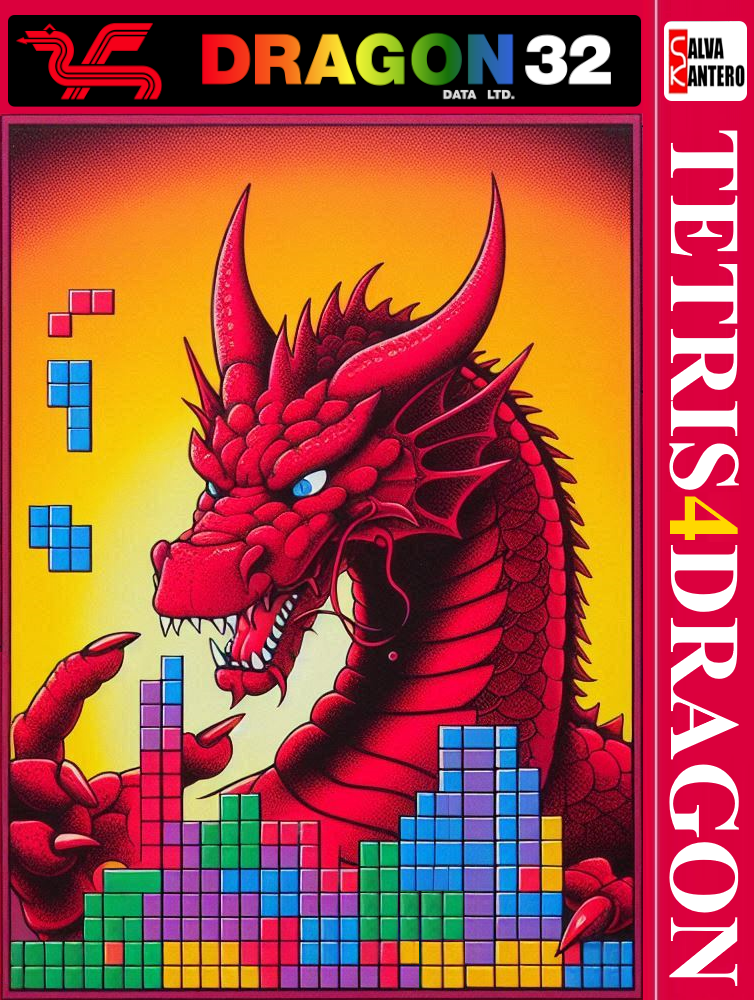
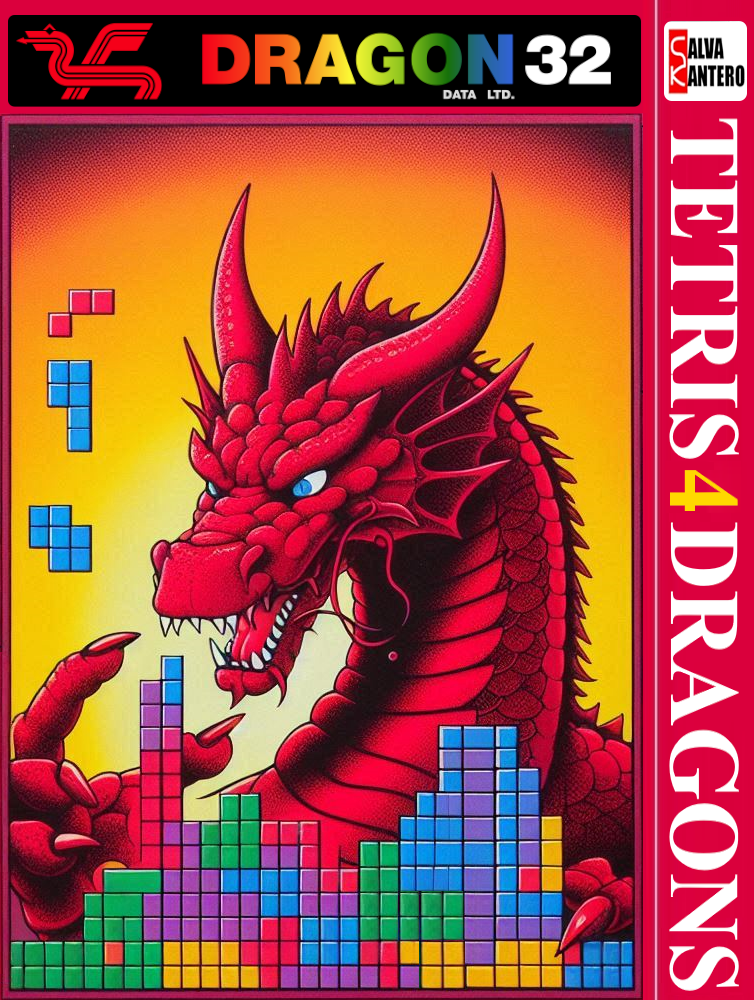
-

Changed region(s): [[0.8846, 0.093, 1.0, 0.992]]

diff --git a/t4d.c b/t4d.c
@@ -1,11 +1,11 @@
 /*
 
-***TETRIS4DRAGON***
- salvaKantero 2024
+*** TETRIS4DRAGONS ***
+   salvaKantero2024
+
+Compatible with Dragon 32/64 and COCO
 
 Based on Peter Swinkels' PC Qbasic code. (QBBlocks v1.0)
-
-compatible with Dragon 32/64 and COCO
 
 use the CMOC compiler 0.1.89 or higher
 "cmoc --dragon -o t4d.bin t4d.c"
@@ -13,9 +13,9 @@ use the CMOC compiler 0.1.89 or higher
 
 TODO
 ====
-- impresión de bloques
+- línea 16 con 2 players
+- desplazamiento izda.
 - timing
-
 
 */
 
@@ -27,7 +27,7 @@ TODO
 #define BLOCKCOUNT SIDEBLOCKCOUNT * SIDEBLOCKCOUNT // size of the piece in blocks
 #define NOBLOCK '0' // character representing an empty block
 #define PITWIDTH 10 // width of the pit in blocks
-#define PITHEIGHT 15 // height of the pit in blocks
+#define PITHEIGHT 16 // height of the pit in blocks
 
 char key; // key pressed
 unsigned char numPlayers; // 0 = player1  1 = player2
@@ -58,9 +58,7 @@ void drawBlock(char blockColour, unsigned char pitX, unsigned char pitY, unsigne
     unsigned char colour = blockColour-'0'; // (0 to 8)
     locate(pitX + pitLeft[i], pitY);
     /*
-    dragon semigraphic characters: 127 to 255
-    +0: black
-    +1: green  
+    dragon semigraphic characters: 127 to 255 
     +16: yellow  
     +32: blue  
     +48: red  
@@ -69,12 +67,12 @@ void drawBlock(char blockColour, unsigned char pitX, unsigned char pitY, unsigne
     +96: magenta  
     +112: orange 
     */
-    // black background (empty block = 128)
+    // black background (empty block)
     if (colour == 0) {
         printf("%c", 128);
         return;
     }
-    // black background (coloured filled block = 143)
+    // coloured filled block
     printf("%c", 143 + ((colour-1) * 16));
 }
 
@@ -517,11 +515,11 @@ void mainLoop() {
     char* rotatedMap;
 
     // save the start time for player 1
-    startTime[0] = getTimer();
-    if (numPlayers > 0) {
+    //startTime[0] = getTimer();
+    //if (numPlayers > 0) {
         // save the start time for player 1
-        startTime[1] = getTimer();
-    }
+        //startTime[1] = getTimer();
+    //}
     while (TRUE) {
         char key = '\0';
         // loop until a key is pressed
@@ -529,10 +527,10 @@ void mainLoop() {
             for (i = 0; i <= numPlayers; i++) {
                 if (!gameOver[i]) { // game in progress
                     // if the falling time has been exceeded
-                    if (getTimer() >= startTime[i] + dropRate[i] || startTime[i] > getTimer()) {
+                    //if (getTimer() >= startTime[i] + dropRate[i] || startTime[i] > getTimer()) {
                         dropShape(i); // the piece moves down
-                        startTime[i] = getTimer(); // reset the fall timer
-                    }
+                        //startTime[i] = getTimer(); // reset the fall timer
+                    //}
                 }
             }
             key = inkey(); // read keypresses
@@ -542,11 +540,13 @@ void mainLoop() {
             break;
         } else {
             for (i = 0; i <= numPlayers; i++) {
+                /*
                 if (gameOver[i]) { // out of game
                     if (key == 'Z') { // if ENTER is pressed, restart game
                         break;
                     }
-                } else {
+                } else { */
+                if (!gameOver[i]) {
                     // assign keys for each player
                     char rotateKey, leftKey, downKey, rightKey;
                     if (i == 0) {
@@ -560,7 +560,6 @@ void mainLoop() {
                         downKey = 'K';
                         rightKey = 'L';
                     }
-
                     switch (key) {
                         case 'W': case 'I': // rotate key
                             drawShape(i, TRUE); // erase piece
@@ -574,15 +573,19 @@ void mainLoop() {
                             break;
 
                         case 'A': case 'J': // move left
-                            drawShape(i, TRUE); // erase piece
-                            if (shapeCanMove(shapeMap[i], -1, 0, i)) shapeX[i]--;
-                            drawShape(i, FALSE);
+                            if (shapeCanMove(shapeMap[i], -1, 0, i)) {
+                                drawShape(i, TRUE); // erase piece
+                                shapeX[i]--;
+                                drawShape(i, FALSE);
+                            }
                             break;
 
                         case 'D': case 'L': // move right
-                            drawShape(i, TRUE); // erase piece
-                            if (shapeCanMove(shapeMap[i], 1, 0, i)) shapeX[i]++;
-                            drawShape(i, FALSE);
+                            if (shapeCanMove(shapeMap[i], 1, 0, i)) {
+                                drawShape(i, TRUE); // erase piece
+                                shapeX[i]++;
+                                drawShape(i, FALSE);
+                            }
                             break;
 
                         case 'S': case 'K': // set the descent time to 0
